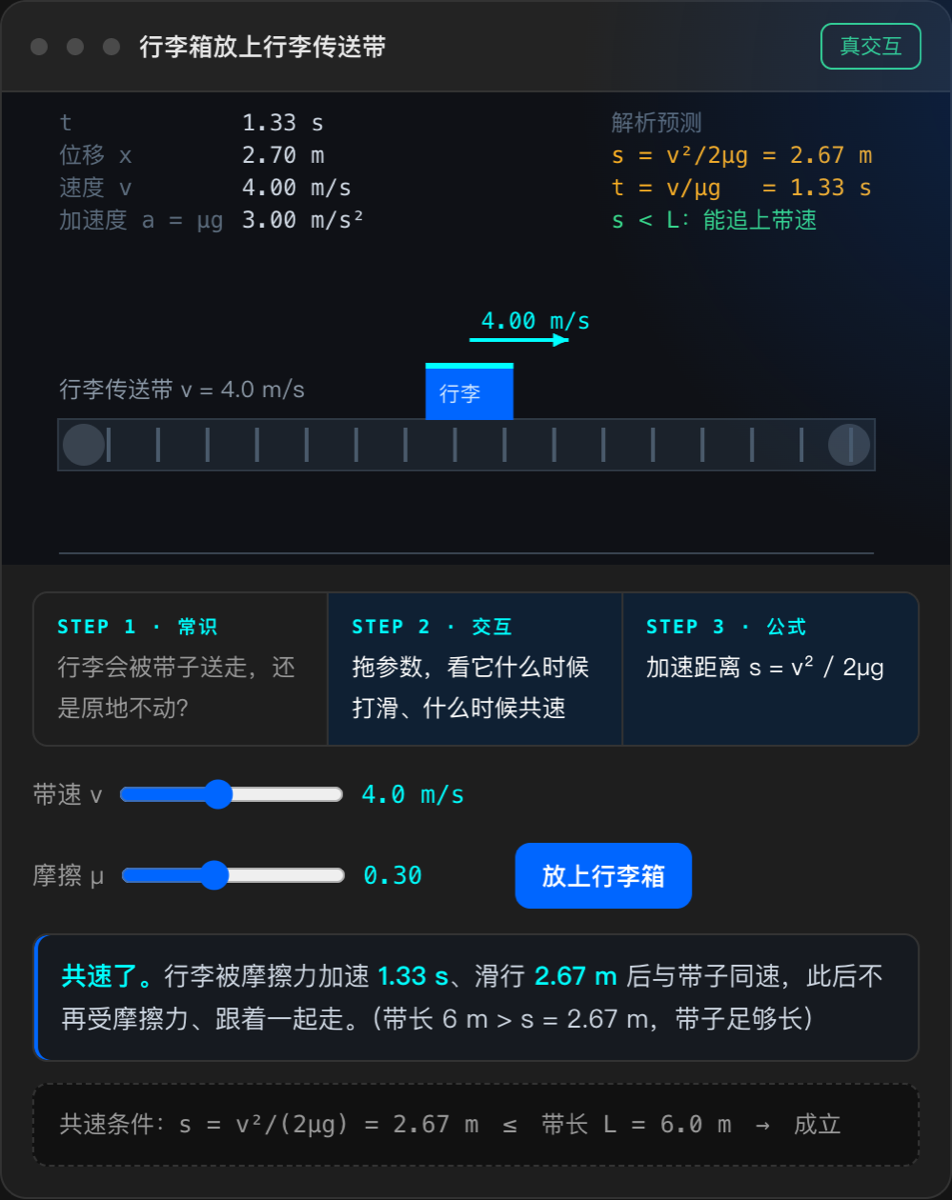
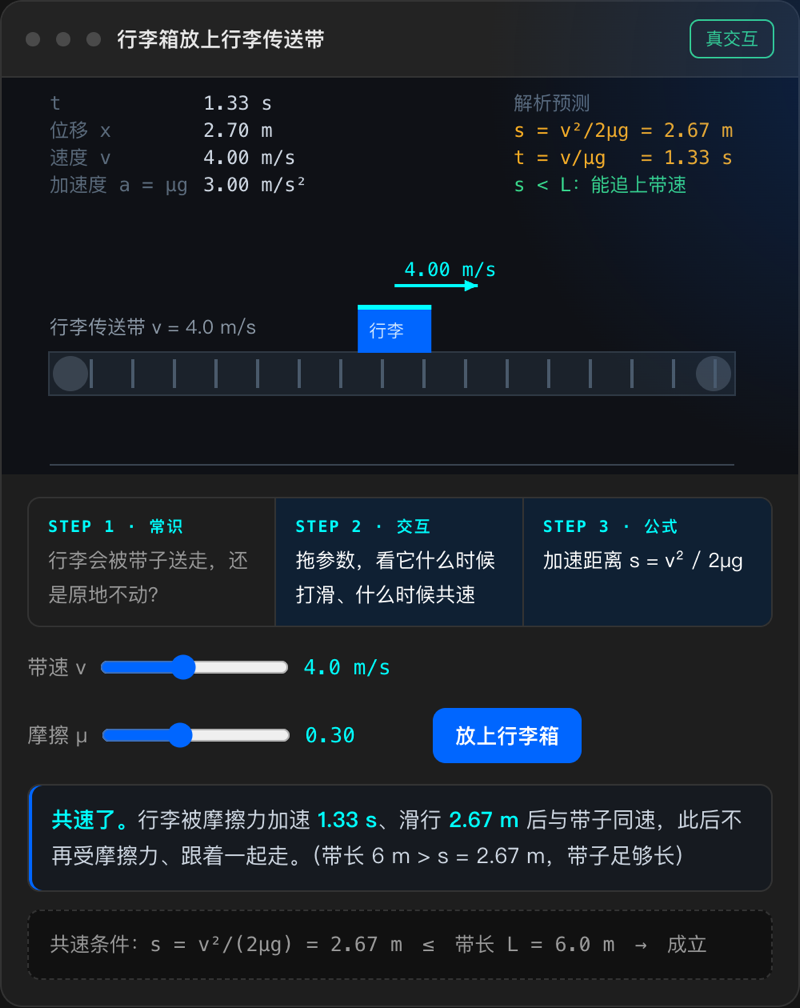
接入新素材：教材内容层 → 站内 #textbook 节
- 新增「底盘 · 教材内容层」整节：人教 2019 全 16 册逐节要点，覆盖门查到每一节
- 三科表：数学 5 册/73 节、物理 6 册/125 节、化学 5 册/60 节，逐节栏位按学科命名，门状态 PASS
- hero 数据条改为「65 章 / 258 节 双层知识资产，两道机器门全绿」；nav 与 footer 增加「教材层」锚点
- FAQ 增补第 5 问：教材内容层与教材原文的边界（要点整理，非原文复制）
- 页脚口径来源补内容层与第二道门；口径来自 ../gaokao-sci-knowledge-tree/
- 复验：lint 0 error/0 warn；无头渲染零控制台报错；物理断言 mu03 1.33s/2.67m、mu01 vEnd 3.46m/s；小屏横向溢出 0；shots 刷新

diff --git a/index.html b/index.html
@@ -61,7 +61,7 @@ header.hero::after{content:"";position:absolute;right:-160px;top:-140px;width:52
 .hero .lede{font-size:16.5px;color:#c3c3c3;max-width:560px}
 .hero .cta{display:flex;gap:12px;flex-wrap:wrap;margin:30px 0 22px}
 .hero .note{font-size:12.5px;color:var(--dim);box-shadow:inset 2px 0 0 var(--line);padding-left:12px}
-.hero-stats{display:grid;grid-template-columns:repeat(3,1fr);gap:14px;margin-top:34px;max-width:620px}
+.hero-stats{display:grid;grid-template-columns:repeat(2,1fr);gap:14px;margin-top:34px;max-width:620px}
 .hstat{background:var(--panel);border:1px solid var(--line);border-radius:10px;padding:13px 15px}
 .hstat b{display:block;font-size:23px;color:#fff;font-variant-numeric:tabular-nums;letter-spacing:-.02em}
 .hstat span{font-size:12px;color:var(--dim);line-height:1.5;display:block;margin-top:3px}
@@ -199,6 +199,7 @@ footer .src b{color:#cfd8e3}
     <span class="links">
       <a href="#scene">场景化</a>
       <a href="#domain">集中化</a>
+      <a href="#textbook">教材层</a>
       <a href="#vs">对标</a>
       <a href="#evidence">判据</a>
       <a href="#faq">问答</a>
@@ -227,9 +228,8 @@ footer .src b{color:#cfd8e3}
         当前进度：<b>高中物理·力学域</b>内测准备中（产品原型，非已发布商品）。工作名「格物」，待定。
       </p>
       <div class="hero-stats">
-        <div class="hstat"><b>65<small style="font-size:14px">章</small></b><span>数物化知识大纲，<i>机器覆盖门 100% 归位</i></span></div>
+        <div class="hstat"><b>65<small style="font-size:14px">章</small> / 258<small style="font-size:14px">节</small></b><span>数物化知识双层资产：大纲到章、内容层到节<i>两道机器门全绿</i></span></div>
         <div class="hstat"><b>83%</b><span>章节可场景化（S3 强场景占 52%）<span class="tag est">估</span></span></div>
-        <div class="hstat"><b>3<small style="font-size:14px">道</small></b><span>高考真题交互页已跑通、数值与官方解析一致</span></div>
       </div>
     </div>
 
@@ -350,7 +350,7 @@ footer .src b{color:#cfd8e3}
     </div>
 
     <div class="grid g4" style="margin-bottom:22px">
-      <div class="card"><h3>① 收</h3><p>按学习连贯性而不是教材册次，把 65 章收成 <b>12 个域</b>。</p></div>
+      <div class="card"><h3>① 收</h3><p>按学习连贯性而不是教材册次，把 65 章收成 <b>12 个域</b>，域内挂 258 个正文节。</p></div>
       <div class="card"><h3>② 门</h3><p>覆盖门脚本跑真题逐题标注，<b>漏条目即退出码非 0</b>，自动回炉。</p></div>
       <div class="card"><h3>③ 诊</h3><p>每个知识点 2 道诊断小测，过了才点亮，没过就补。</p></div>
       <div class="card"><h3>④ 串</h3><p>模型之间标 prerequisite，散点挂成结构。</p></div>
@@ -377,6 +377,53 @@ footer .src b{color:#cfd8e3}
     <p class="quote warm">
       <b>科学底座 · 全域图式律</b>：先行组织者（Ausubel）先给全域总图再进知识点；掌握学习（Bloom 2σ，取"达标才进阶"的机制、不取数值，Slavin 等人的高估批评已注）；认知负荷理论（Sweller）用图式组块降负荷。
       <b>边界注记</b>：交错练习优于集中刷题（Rohrer 2020 RCT）——本产品的「集中」指知识覆盖与图式结构，练习排程仍走间隔 + 交错。<b>图式集中，练习交错。</b>
+    </p>
+  </div>
+</section>
+
+<!-- ══════════ 教材内容层 ══════════ -->
+<section class="sec" id="textbook">
+  <div class="wrap">
+    <div class="sec-head">
+      <span class="secno">底盘 · 教材内容层</span>
+      <h2>覆盖门不再只查到「章」——<em>已经查到每一节</em></h2>
+      <p>「一个领域一次收齐」不能靠嘴说。人教 2019 全 16 册逐节拆成可核条目，每条都标出它在高考卷上的接口——这才是「一格都不落」的可验证含义。</p>
+    </div>
+
+    <div class="grid g3" style="margin-bottom:22px">
+      <div class="card hl">
+        <span class="who">01 · 双层门</span>
+        <h3>纲要不漏章，内容不漏节</h3>
+        <p>第一道门比对<b>大纲</b>（65 章 + 254 条节级条目），第二道门比对<b>教材内容层</b>（册数 + 真实正文节数 + 来源，四重校验）。任一条缺失即退出码非 0，自动回炉。</p>
+      </div>
+      <div class="card hl">
+        <span class="who">02 · 逐节骨架</span>
+        <h3>每节都用同一把尺子</h3>
+        <p>定义对象 → 公式结论 → 方法技能 → 实验要点 → 教材栏目线索 → <b>高考接口</b>。各科按学科习惯命名其中几栏，但骨架位置一致，机器才数得清。</p>
+      </div>
+      <div class="card hl">
+        <span class="who">03 · 可追溯</span>
+        <h3>每节直接挂到考纲考点</h3>
+        <p>每节末栏写清它对应大纲哪一章、哪一考点、什么权重。想查某个考点「教材里在哪讲、讲到多深」，顺接口就能翻回去——这是给内容生产线用的地图。</p>
+      </div>
+    </div>
+
+    <div class="tscroll">
+    <table class="map">
+      <thead>
+        <tr><th>科目</th><th>册数</th><th>正文节</th><th>逐节栏位（按学科命名）</th><th>门状态</th></tr>
+      </thead>
+      <tbody>
+        <tr><td>数学</td><td>5 册</td><td>73 节</td><td>定义与对象 / 公式与结论 / 方法与技能 / 教材栏目线索 / 高考接口</td><td><span class="tag now">PASS</span></td></tr>
+        <tr><td>物理</td><td>6 册</td><td>125 节</td><td>定义与对象 / 公式与规律 / 模型与方法 / 实验要点 / 教材栏目线索 / 高考接口</td><td><span class="tag now">PASS</span></td></tr>
+        <tr><td>化学</td><td>5 册</td><td>60 节</td><td>核心概念 / 关键方程式 / 性质与转化 / 实验要点 / 教材栏目线索 / 高考接口</td><td><span class="tag now">PASS</span></td></tr>
+      </tbody>
+    </table>
+    </div>
+
+    <p class="quote" style="margin-top:22px">
+      <b>口径与边界</b>：内容层是<b>教材要点整理</b>（教材目录 + 节级知识要点），不是教材原文复制。粒度到「每节的定义 / 公式 / 方法」，尚未到「逐公式证明 / 逐例题」。16 册另收录章末「整理与提升」19 条、化学「实验活动」18 条、册末专题 3 条，合计 <b>300 条</b>可检索条目，每册都带可核来源链接。
+      <span class="tag">诚实注记：六栏里「实验要点」在数学无此项、物理覆盖 81/125 节——按该节是否含实验而定，不硬凑</span>
     </p>
   </div>
 </section>
@@ -497,7 +544,9 @@ footer .src b{color:#cfd8e3}
     <details class="faq"><summary>会不会又是"看动画"？</summary>
       <div class="ans">不会。<b>动画是播给你看的，格物的画面是等你来拖的。</b>页面上每一个演示——绳子的角度、传送带的带速、磁场的宽度——都是可调参数，拖一下物理量立刻重算。你现在就可以在上面那块演示台上试。</div></details>
     <details class="faq"><summary>知识点的完备性怎么保证？不是你说齐就齐。</summary>
-      <div class="ans">用机器门兜底。三科 65 章的"章 + 节"清单内嵌在校验脚本里，逐条与大纲做归一化匹配，<b>任何缺失条目直接退出码非 0</b>，也就是漏了就自动回炉。当前状态：三科全绿。</div></details>
+      <div class="ans">用两道机器门兜底。第一道比对<b>大纲</b>：三科 65 章的"章 + 节"清单内嵌在校验脚本里，逐条归一化匹配，任何缺失条目直接退出码非 0。第二道比对<b>教材内容层</b>：人教 2019 全 16 册的册数、真实正文节数（数学 73 / 物理 125 / 化学 60）、以及每册必备的来源区，同样一缺即退出码非 0。漏了就自动回炉，当前状态：两道门全绿。</div></details>
+    <details class="faq"><summary>那个"教材内容层"是什么？和教材原文什么关系？</summary>
+      <div class="ans">是<b>教材要点整理</b>，不是原文复制。按人教 2019 教材目录逐节拆条目，每节固定六栏骨架（定义对象 / 公式结论 / 方法技能 / 实验要点 / 教材栏目线索 / <b>高考接口</b>，各科按学科习惯命名其中几栏），每册带可核来源链接。粒度到"每节的定义与公式"，还没到"逐公式证明、逐例题"。它的用途是当内容生产线的底盘——哪个考点该配场景课、哪节是空白，看这张表就知道。</div></details>
     <details class="faq"><summary>物理数值会不会写错？错了就是信誉事故。</summary>
       <div class="ans">每页必须过"解析数值一致"校验才允许上线。已上线的 3 道真题页与官方解析数值一致；其中 2023 压轴第 2 问的临界磁场宽度，我们按动量定理重推为 <b>W* = 2.00 L</b>，并用该链路验算产热恰等于官方答案。<b>错误的页面不上线。</b></div></details>
     <details class="faq"><summary>现在能买到吗？多少钱？</summary>
@@ -529,7 +578,7 @@ footer .src b{color:#cfd8e3}
       </div>
       <div>
         <h5>产品</h5>
-        <p><a href="#scene">场景化教学</a><br><a href="#domain">集中化学习</a><br><a href="demo-khanmigo-replica.html">真题交互演示</a></p>
+        <p><a href="#scene">场景化教学</a><br><a href="#domain">集中化学习</a><br><a href="#textbook">教材内容层</a><br><a href="demo-khanmigo-replica.html">真题交互演示</a></p>
       </div>
       <div>
         <h5>关于</h5>
@@ -537,7 +586,8 @@ footer .src b{color:#cfd8e3}
       </div>
     </div>
     <div class="src">
-      <b>口径来源（可核）：</b>知识大纲与覆盖校验 = 高考物化数知识大钢结构 2026 新高考口径（65 章，覆盖门全绿）；
+      <b>口径来源（可核）：</b>知识大纲与覆盖校验 = 高考物化数知识大钢结构 2026 新高考口径（65 章 / 254 条节级条目，门全绿）；
+      教材内容层 = 人教 2019 全 16 册逐节要点（258 正文节 + 42 条栏目条目，第二道门全绿，含逐册来源链接）；
       章节分层 = 场景化 × 集中化分层（T 教学层级 × S 场景度双标签）；
       竞品官网实拍 = 2026-10-03 无头沙屏抓取，站点见图卡链接；
       Khanmigo 效果口径 = Khan Academy 官方博客（2026-08-27）；定价与市场规模 = 行业调研口径，标注【估】的为预估值。

diff --git a/README.md b/README.md
@@ -22,8 +22,9 @@
 |---|---|---|
 | 主轴一 · 情境锚定律 | `#scene` | 教学顺序倒过来：**常识 → 交互 → 公式**，而不是"先公式后套题" |
 | 主轴二 · 全域图式律 | `#domain` | 不做"搜一题讲一题"，**一个领域一次收齐**，建的是知识图式不是题海 |
+| 底盘 · 教材内容层 | `#textbook` | 覆盖门查到**每一节**：人教 2019 全 16 册逐节要点 + 高考接口，第二道机器门 |
 
-页面结构（自上而下）：`hero`（含实时物理演示台）→ `#pain` 谁在痛 → `#scene` 主轴一 → `#domain` 主轴二 → `#vs` 竞品对照 → `#evidence` P0 8 周验证 → `#form` 学科类培训合规硬约束 → `#faq` → `#cta` 内测招募 → `footer`。
+页面结构（自上而下）：`hero`（含实时物理演示台）→ `#pain` 谁在痛 → `#scene` 主轴一 → `#domain` 主轴二 → `#textbook` 教材内容层 → `#vs` 竞品对照 → `#evidence` P0 8 周验证 → `#form` 学科类培训合规硬约束 → `#faq` → `#cta` 内测招募 → `footer`。
 
 ## 复用/对接的现有资产
 
@@ -31,7 +32,7 @@
 |---|---|
 | `analysis/ai-education-landscape/` | 页面全部主张与竞品口径的来源（战略图 v2.1、L1 竞品矩阵、P0 计划、合规定位） |
 | `analysis/gaokao-physics-khanmigo-replica/` | 交互教学页骨架被复刻进本站 hero 演示台；`demo-khanmigo-replica.html` 是同源完整复刻页 |
-| `analysis/gaokao-sci-knowledge-tree/` | 「一个领域一次收齐」的 12 集中域口径来自这套 65 章大纲 + 覆盖门 |
+| `analysis/gaokao-sci-knowledge-tree/` | 「一个领域一次收齐」的两层口径：`#domain` 的 12 集中域来自 65 章大纲；`#textbook` 整节来自该目录 2026-10-03 新增的 `教材内容/`（人教 2019 全 16 册、300 条逐节条目、第二道机器门） |
 
 ## 文件清单
 
